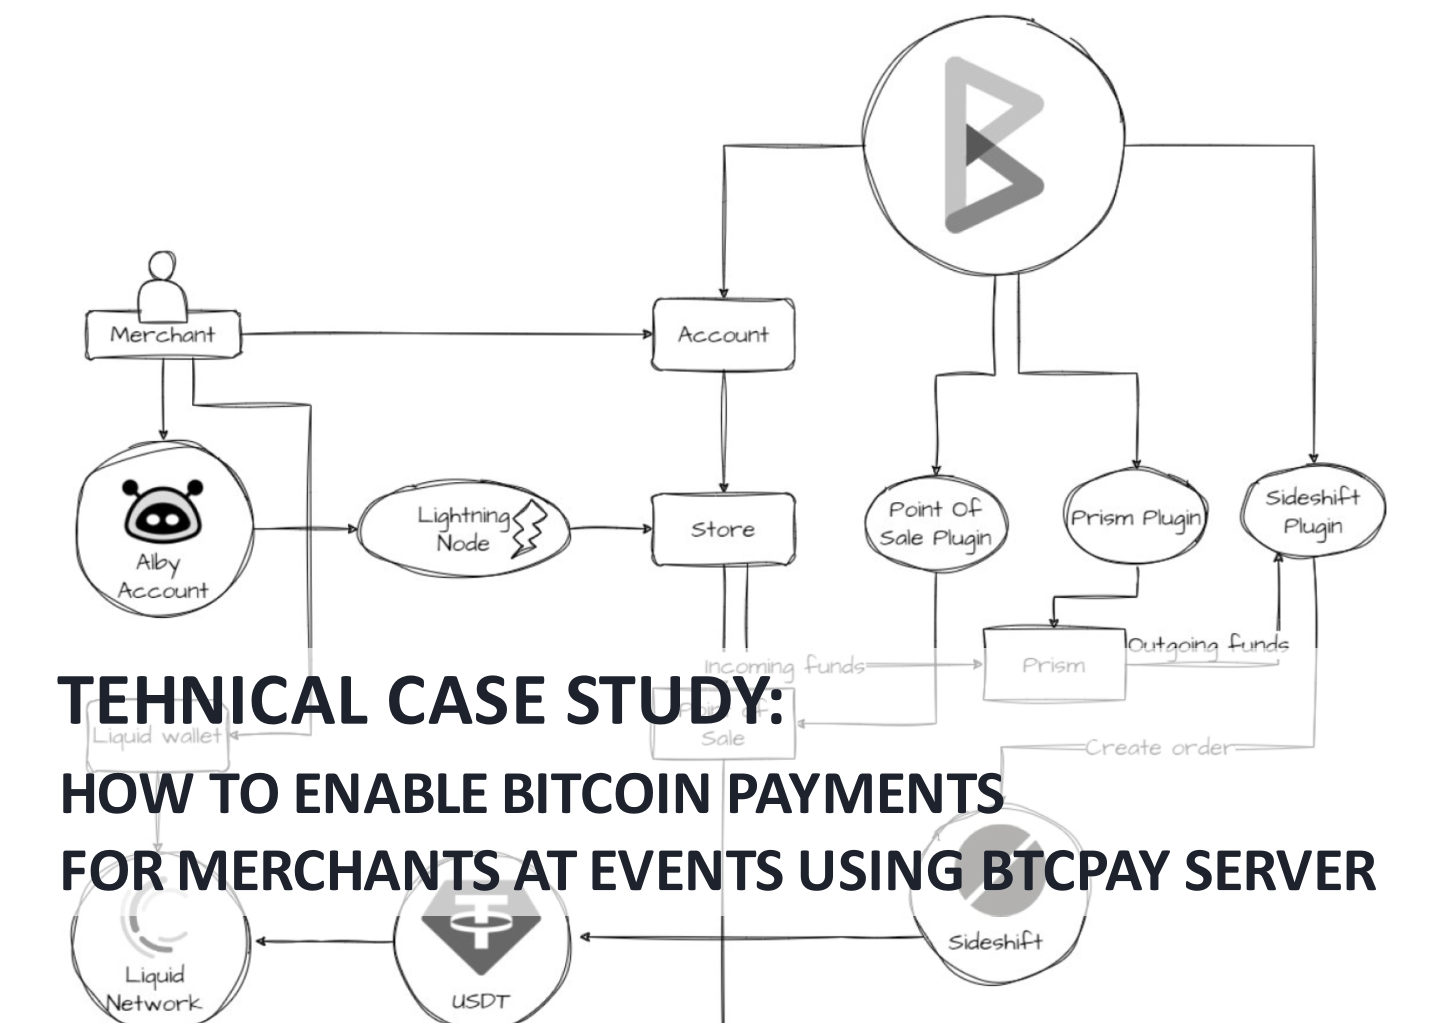
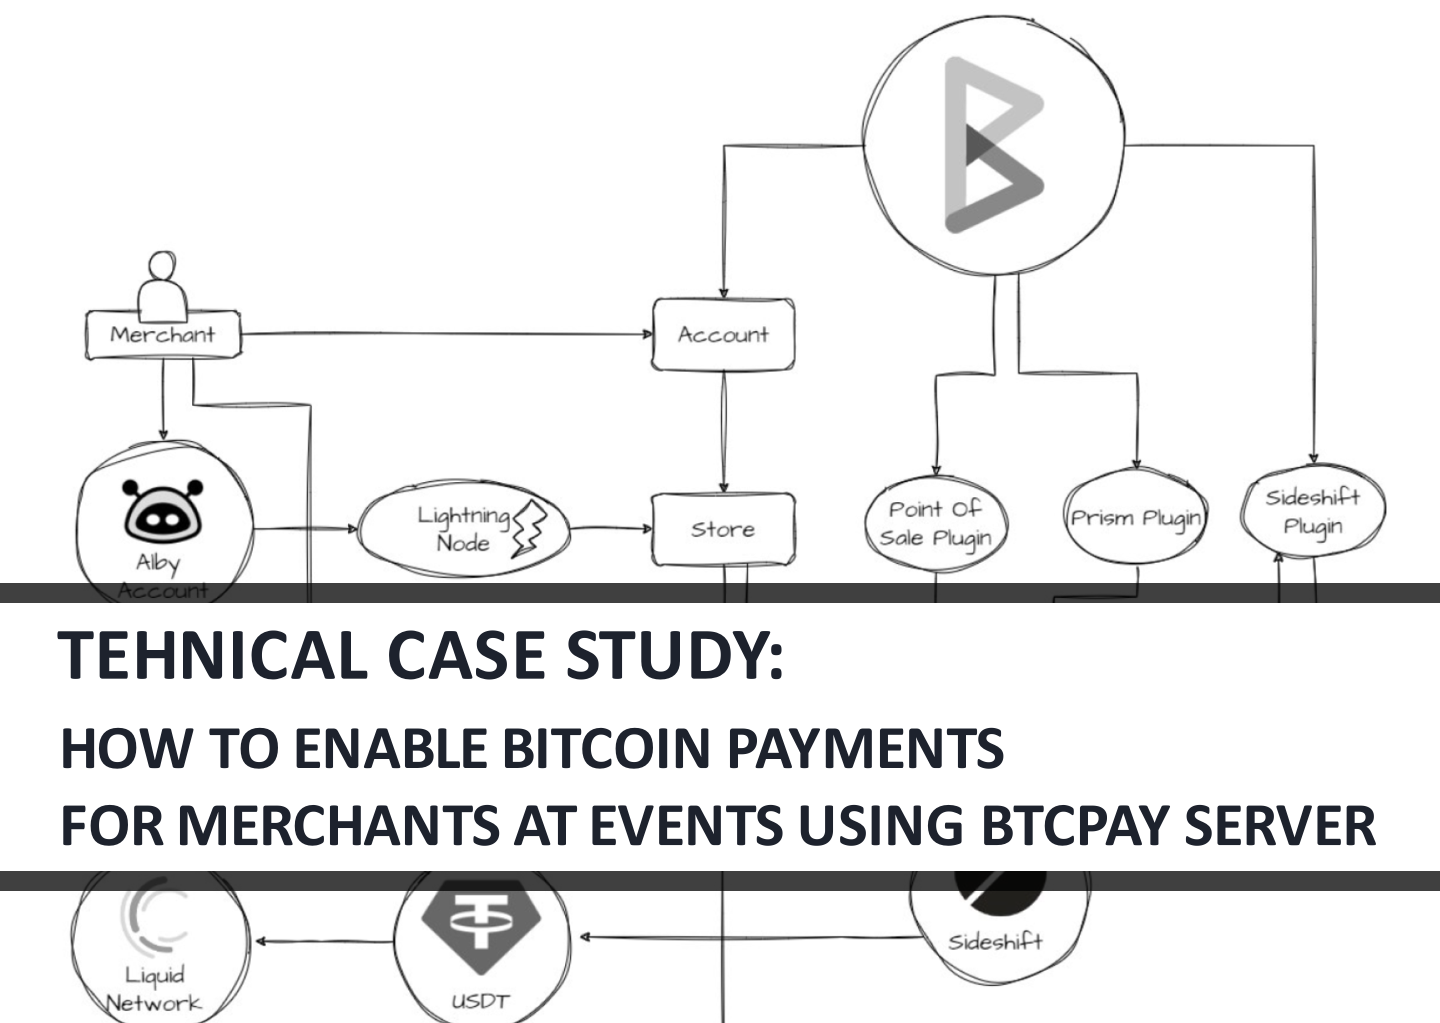
Updating text and the cover image

Changed region(s): [[0.0, 0.5455, 1.0, 0.9091]]

diff --git a/blog/_posts/case-study-technical-prism-sideshift.md b/blog/_posts/case-study-technical-prism-sideshift.md
@@ -14,11 +14,11 @@ tags:
 coverImage: "/images/case-study-technical-prism-sideshift/technical-case-study-cover.png"
 ---
 
-Recently, we published [a case study highlighting the success of the Baltic Honey Badger 2023 conference](https://blog.btcpayserver.org/case-study-hodlhodl-2023/). At this event, merchants exclusively used Bitcoin to facilitate payments for food and drinks.
+Recently, we published [a case study highlighting the success of the Baltic Honey Badger 2023](https://blog.btcpayserver.org/case-study-hodlhodl-2023/) - a Bitcoin conference where all merchants exclusively used Bitcoin to facilitate payments for food and drinks.
 
 <iframe width="560" height="315" src="https://www.youtube.com/embed/mDeuHh9gqQM?si=I8pO_Ed5lQUm8m65" title="Case Study: How Hodl Hodl used BTCPay to enable 20 merchants at a conference to accept bitcoin" frameborder="0" allow="accelerometer; autoplay; clipboard-write; encrypted-media; gyroscope; picture-in-picture; web-share" allowfullscreen></iframe>
 
-In this post, we're diving behind the scenes of that success. We'll provide a step-by-step blueprint on how you can replicate this – by setting up a BTCPay Server and providing individual stores for each merchant. 
+In this post, we're diving behind the scenes of what happened. We'll provide a step-by-step guide on how you can replicate this – by setting up a BTCPay Server and providing individual stores for each merchant.
 
 All technology necessary for this setup is under MIT license, and code is fully available on GitHub:
 
@@ -27,7 +27,7 @@ All technology necessary for this setup is under MIT license, and code is fully 
 
 ## Launch Your BTCPay Server Instance
 
-Before anything else, you’ll need to ensure you have a BTCPay Server instance running. Fortunately, several reputable hosting providers now offer BTCPay Server as a service. Our [Deploying BTCPay Server documentation](https://docs.btcpayserver.org/Deployment/webdeployment/) lists six noteworthy options:
+Before anything else, you’ll need to ensure you have a BTCPay Server instance running. Fortunately, several reputable hosting providers now provide wizards that make this very easy. Our [Deploying BTCPay Server documentation](https://docs.btcpayserver.org/Deployment/webdeployment/) lists six noteworthy options:
 
 - LunaNode
 - Voltage Cloud
@@ -36,7 +36,7 @@ Before anything else, you’ll need to ensure you have a BTCPay Server instance 
 - Azure
 - Google Cloud
 
-For the purposes of this guide, we'll use LunaNode. It’s [the oldest web wizard that supports BTCPay Server deployments](https://docs.btcpayserver.org/Deployment/LunaNode/), all for a reasonable monthly fee of just over $15.
+For the purposes of this guide, we'll use LunaNode. It’s [the oldest web wizard that supports BTCPay Server deployments](https://docs.btcpayserver.org/Deployment/LunaNode/), all for a reasonable monthly fee of around $15.
 
 Start by registering an account with LunaNode. Create your API keys, then proceed to <https://launchbtcpay.lunanode.com>.
 
@@ -45,7 +45,7 @@ Our [Deploying BTCPay - LunaNode Web-Wizard](https://docs.btcpayserver.org/Deplo
 
 ## Account Creation and Plugin Installation
 
-With your instance now active and ready, create the main administrative [account ](https://docs.btcpayserver.org/RegisterAccount/)and log in. Upon successful login, you'll be prompted to [create a store](https://docs.btcpayserver.org/CreateStore/). Consider this as your primary store for demonstration and initial testing, ensuring you're familiar with the system before onboarding the merchants.
+With your instance now active and ready, create the main administrative [account](https://docs.btcpayserver.org/RegisterAccount/) and log in. Upon this being successful completed, you'll be prompted to [create a store](https://docs.btcpayserver.org/CreateStore/). Use this store as your primary one - for demonstration and initial testing. This way you can ensure you're familiar with the system before onboarding the merchants.
 
 Next, turn your attention to the necessary plugins. Navigate to the 'Manage Plugins' page and install the following:
 
@@ -59,9 +59,9 @@ Once you've added these plugins, you'll be prompted to restart the server. Kindl
 
 ## Setting Up Your Demo Store
 
-To make certain your store operates smoothly, a few configurations are required:
+To make certain your the upcoming setup operates smoothly, a few configurations are required:
 
-Access the 'Settings -> Rates' and configure the spread to around 2%. This adjustment aims to accommodate transaction fees.
+Access the 'Settings -> Rates' and configure the spread to around 2%. This adjustment aims to cover Sideshift transaction fees.
 
 ![](/images/case-study-technical-prism-sideshift/02_setting_up_store_settings_rates.png)
 
@@ -72,8 +72,9 @@ Furthermore, visit 'Settings > Payout Processors'. Here, configure the Payout Pr
 
 ## Harnessing the Power of Lightning Payments
 
-Each BTCPay Server comes with an integrated Lightning node, empowering you to accept Bitcoin via Lightning. But to actually start doing receiving sats - you would need to open channels and manage incoming liquidity.\
-That's precisely why BTCPay provides support for connecting to remote nodes using different standards. For this guide we will use LNDHub to connect to Alby account. This approach is especially beneficial for those less tech-savvy - merchants can quickly get setup, sidestepping complexities of the Lightning network.
+Each BTCPay Server comes with an integrated Lightning node, empowering you to accept Bitcoin via Lightning. But to actually start doing receiving sats - you would need to open channels and manage incoming liquidity.
+
+That's precisely why BTCPay provides support for connecting to remote nodes using different standards. For this guide we will use LNDHub to connect to Alby account. This approach is beneficial for those less tech-savvy - merchants can quickly get setup, sidestepping complexities of the Lightning network.
 
 Here's how you can set it up:
 
@@ -87,7 +88,8 @@ Here's how you can set it up:
 
 Voila! Merchants are now set to receive lightning payments, while Alby handles the details of managing liquidity since their node is being utilized.
 
-It is worthy to note that you as the administrator of the BTCPay Server will have access to funds in the merchant's Alby account through the LNDHub credentials.\
+It is worthy to note that you as the administrator of the BTCPay Server will have access to funds in the merchant's Alby account through the LNDHub connection string.
+
 This is why in the next step we will set up a Prism. The idea being that Bitcoin remains on Alby only until it reaches a certain threshold (we suggest 100,000 sats). Once this amount accrues, it should get forwarded to a destination under the merchant's (could be another lightning address).
 
 
@@ -112,7 +114,8 @@ Once you install the wallet, ensure that seed phrase is backed up. Then tap on t
 
 Before we proceed further we need to generate a Sideshift destination which will convert 80% of incoming sats into USDT on Liquid. An important caveat here is that both your location and the BTCPay Server's hosting site need to be outside of the US. SideShift's operations don't extend to US territories, and attempting access will trigger an 'Access denied' notification.
 
-Beyond that, be aware that each conversion incurs around 2% for Sideshift fee + on-chain transaction fee . So for every 1000 sats, you’ll be paying 20 in order for merchants to receive stablecoin in their Green Wallet.\
+Beyond that, be aware that each conversion incurs around 2% for Sideshift fee + on-chain transaction fee . So for every 1000 sats, you’ll be paying 20 in order for merchants to receive stablecoin in their Green Wallet.
+
 On top of that you need to be aware of Lightning routing fees. Alby right now doesn’t take any percentage for incoming payments, but while forwarding sats from Alby node to Sideshift - you may see \~0.5% fees charged depending on channels used. We’ll talk more about this in the following sections - where we will also be able to configure maximum fees we’re willing to pay.
 
 For now - let’s get back to setup:
